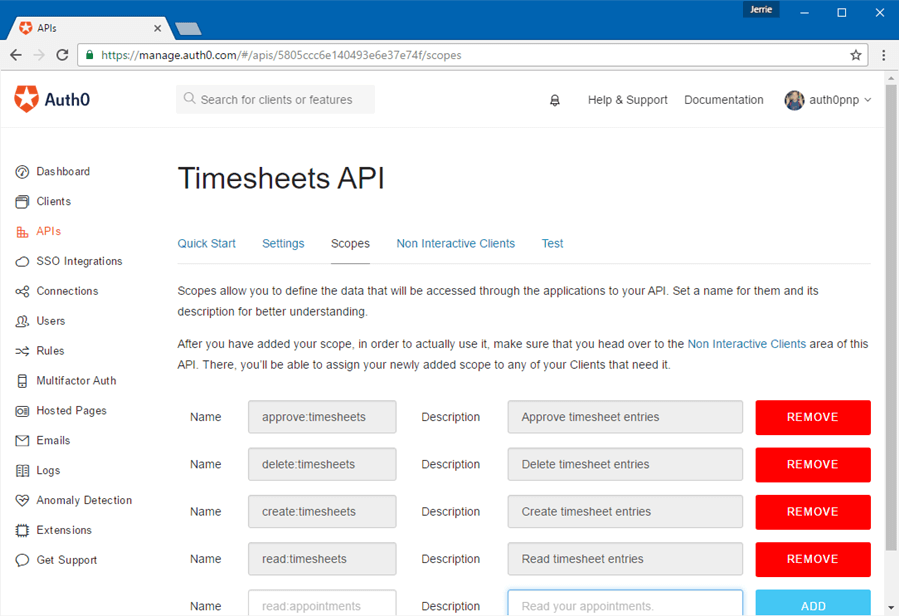
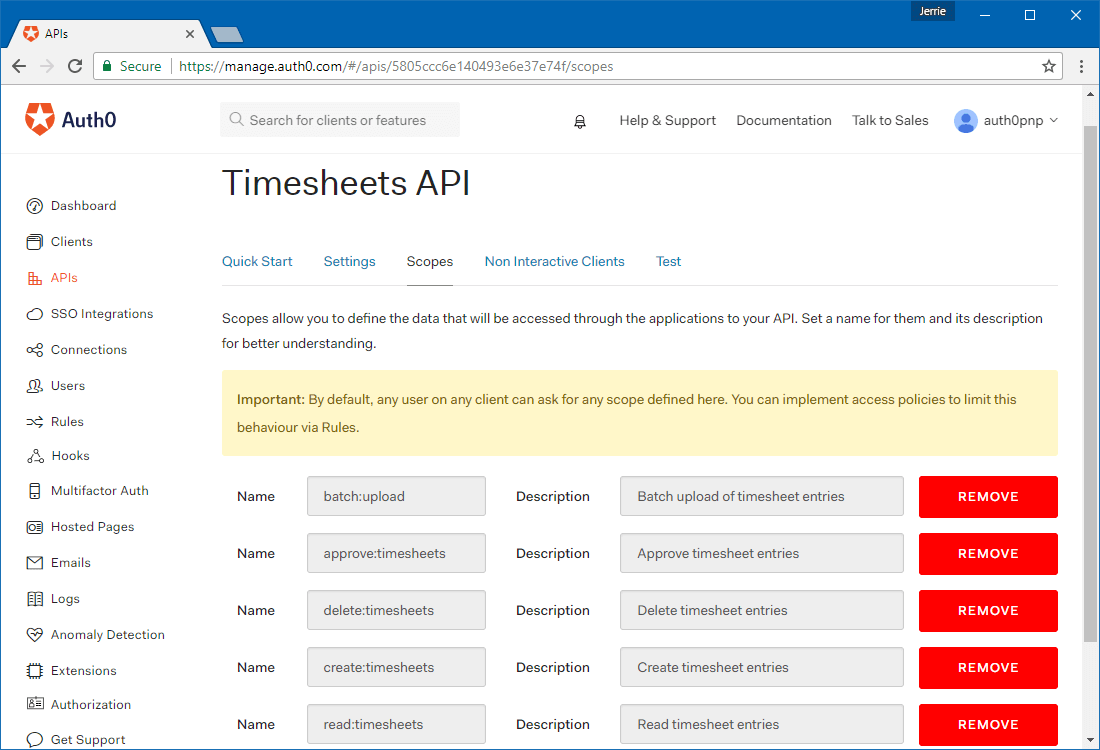
Update Server+API doc

diff --git a/articles/architecture-scenarios/application/server-api.md b/articles/architecture-scenarios/application/server-api.md
@@ -50,7 +50,7 @@ It is quite common for access tokens to be implemented as [JSON Web Tokens](/jwt
 ::: panel What are Scopes?
 Each access token may include a list of the permissions that have been granted to the client. When a client authenticates with Auth0, it will specify the list of scopes (or permissions) it is requesting. If those scopes are authorized, then the access token will contain a list of authorized scopes.
 
-For example, the timesheet API may accept four different levels of authorization: reading timesheets (scope `read:timesheets`), creating timesheets (scope `create:timesheets`), deleting timesheets (scope `delete:timesheets`) and approving timesheets (scope `approve:timesheets`).
+For example, the timesheet API may accept different levels of authorization: reading timesheets (scope `read:timesheets`), creating timesheets (scope `create:timesheets`), deleting timesheets (scope `delete:timesheets`) and approving timesheets (scope `approve:timesheets`). You can also create a scope for batch processes such as the timesheet uploading client, e.g. `batch:upload`.
 
 When a client asks the API to create a new timesheet entry, then the access token should contain the `create:timesheets` scope. In a similar fashion, in order to delete existing timesheets, the access token should contain the `delete:timesheets` scope.
 :::
@@ -81,7 +81,6 @@ For situations like this where there is no user interaction involved, the Client
 1. The Client authenticates with the Authorization Server using its Client Id and Client Secret.
 1. The Authorization Server validates this information and returns an `access_token`.
 1. The Client can use the `access_token` to call the Resource Server on behalf of itself.
-
 
 ## Auth0 Configuration
 
@@ -127,10 +126,10 @@ For a more detailed overview of the JWT signing algorithms refer to: [JSON Web T
 
 Once the client has been created you will need to configure the Scopes which clients can request during authorization.
 
-In the settings for your API, go to the *Scopes* tab. In this section you can add all four of the scopes which was discussed before, namely `read:timesheets`, `create:timesheets`, `delete:timesheets`, `approve:timesheets`.
+In the settings for your API, go to the *Scopes* tab. In this section you can add all four of the scopes which was discussed before, namely `batch:upload`, `read:timesheets`, `create:timesheets`, `delete:timesheets`, `approve:timesheets`.
 
 ::: note
-  For the purposes of this document we will only be ever concerned with the `create:timesheets` scope, as that is all that is required by the Cron job. For completeness sake we are however adding the necessary scopes which will be required by future clients as well.
+  For the purposes of this document we will only be ever concerned with the `batch:upload` scope, as that is all that is required by the Cron job. For completeness sake we are however adding the necessary scopes which will be required by future clients as well.
 :::
 
 ![Add Scopes](/media/articles/architecture-scenarios/server-api/add-scopes.png)
@@ -157,9 +156,9 @@ You will see the **Timesheets Import Job** client listed, and it should have acc
 
 You will also need to specify which scopes will be included in access tokens which are issued to the client when the client authorizes with Auth0.
 
-Expand the settings for the client by clicking on the down arrow to the far right, and you will see the list of available scopes. The cron job will only require the `create:timesheets` scope as it will simply create new timesheets based on the timesheet entries in the external system.
+Expand the settings for the client by clicking on the down arrow to the far right, and you will see the list of available scopes. The cron job will only require the `batch:upload` scope as it will simply create new timesheets based on the timesheet entries in the external system.
 
-Once you have selected the `create:timesheets` scope you can save the settings by clicking the **Update** button.
+Once you have selected the `batch:upload` scope you can save the settings by clicking the **Update** button.
 
 ![Assign Scopes](/media/articles/architecture-scenarios/server-api/assign-scopes.png)
 
@@ -189,12 +188,10 @@ The API will expect a JSON object as input, containing the timesheet information
 
 ```json
 {
-  'user_type': 'Employee',
   'user_id': '007',
-  'year': 2016,
-  'week': 24,
+  'date': '2017-05-10T17:40:20.095Z',
   'project': 'StoreZero',
-  'hours': 40
+  'hours': 5
 }
 ```
 
@@ -239,7 +236,7 @@ Now we have secured our API's endpoint with an access token but we still haven't
 
 As discussed earlier in this doc, each access token may include a list of the permissions that have been granted to the client. These permissions are defined using the scope request parameter. For more information on how to configure this refer to the [Configure the Scopes](#configure-the-scopes) paragraph.
 
-For our endpoint we will require the scope `create:timesheets`.
+For our endpoint we will require the scope `batch:upload`.
 
 ::: note
   See the implementation in [Node.js](/architecture-scenarios/application/server-api/api-implementation-nodejs#check-the-client-permissions)
